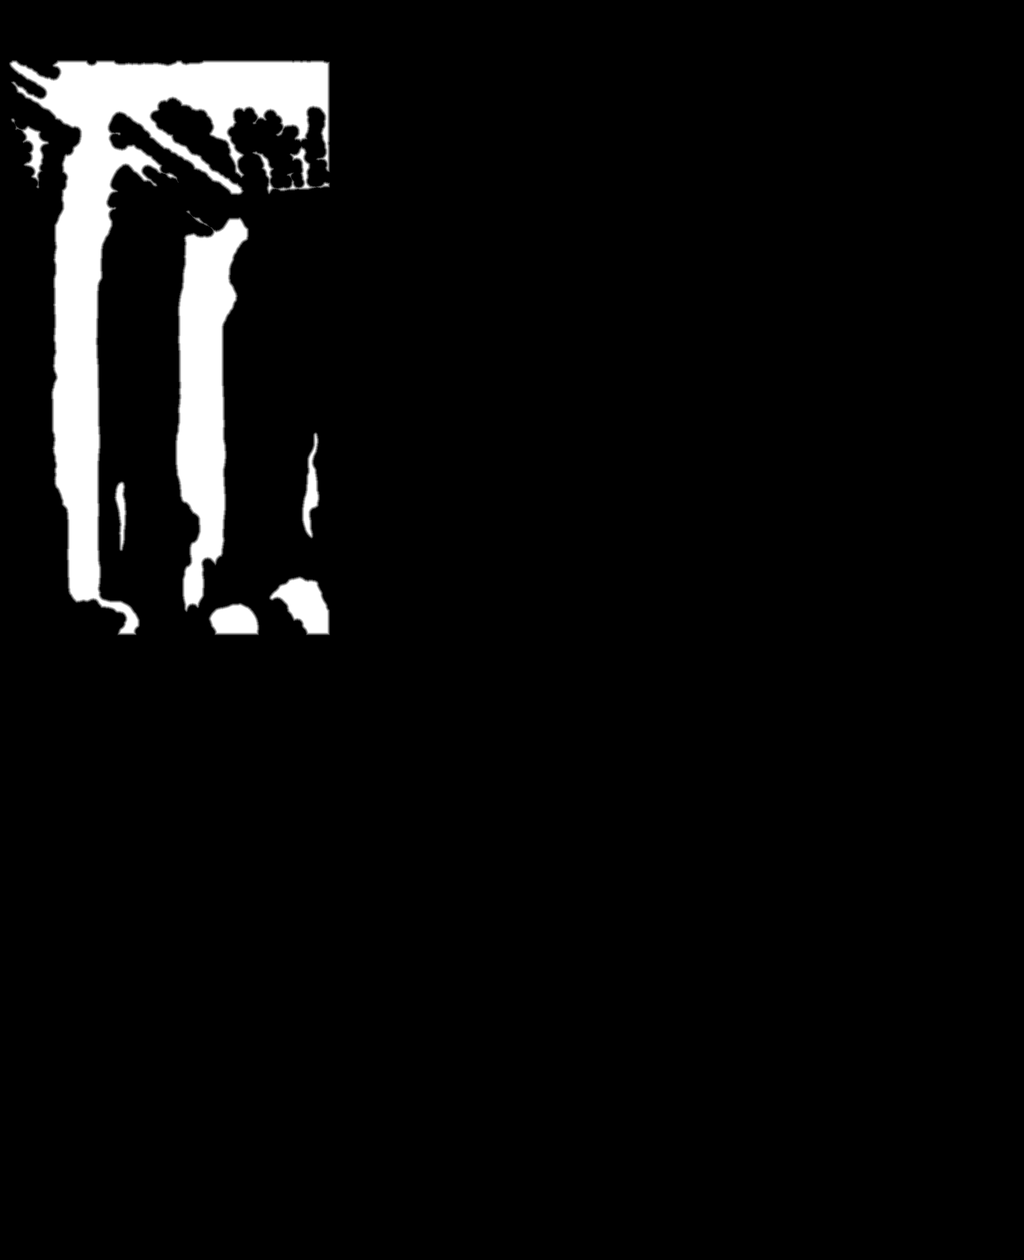
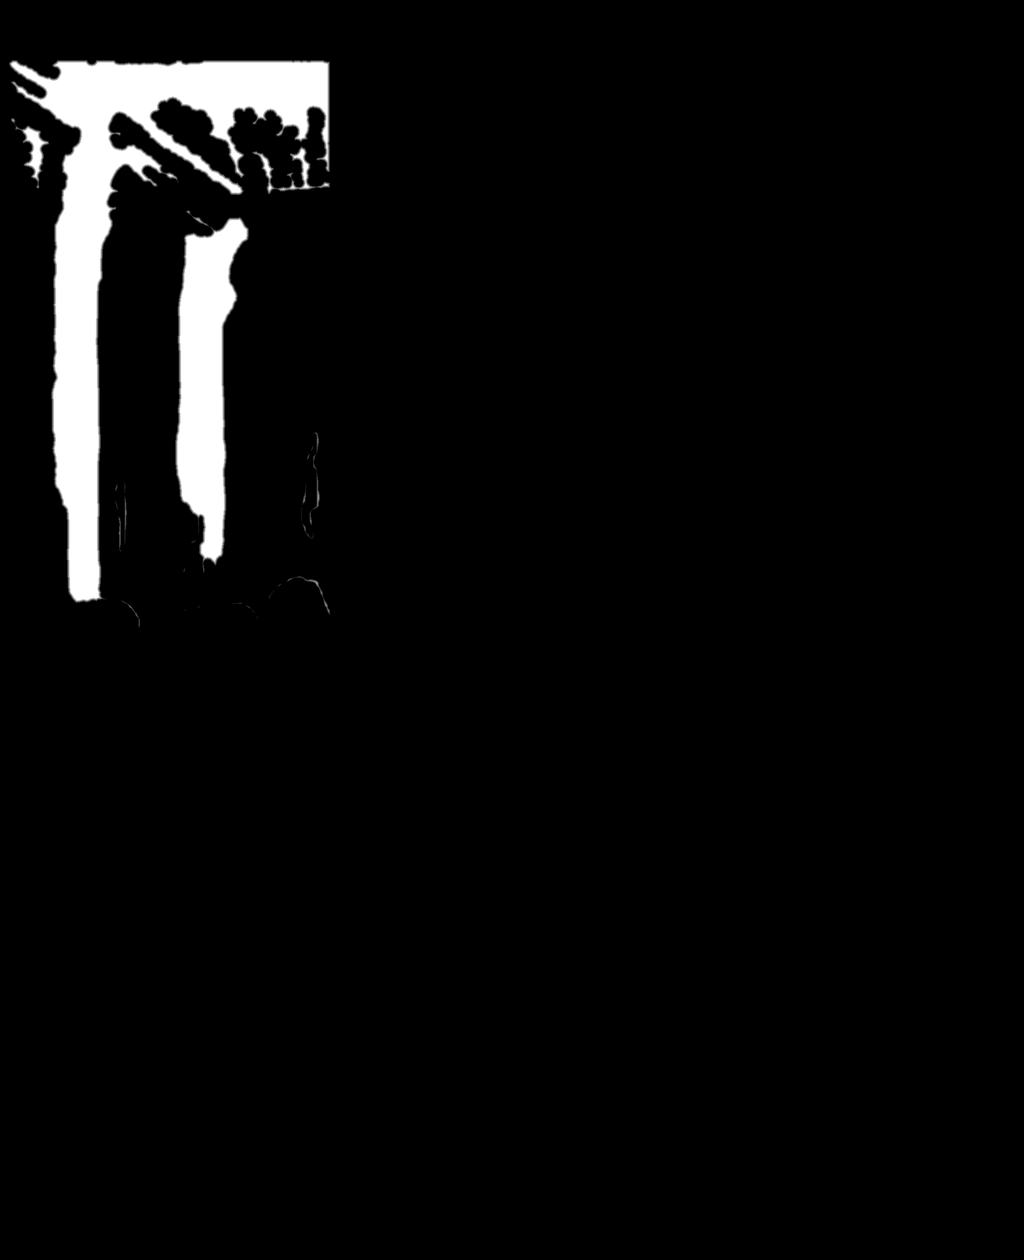
fix(parallax): stop crowd layer duplicating figures via global mask ownership
clean()'s fill-enclosed-holes step stamped every figure (and the whole floor,
signature included) back into the crowd band after subtraction, so the crowd
layer at z=-0.9 drew a ghost copy of each figure behind its real cut. Replace
per-layer subtractions with one exclusive ownership pass over all 33 layers —
painted crowd/floor/arch/figures/dove/flames in priority order, every pixel
owned once. Adds diag_parallax.py, an offline shifted-composite simulator
that surfaced the guilty pairs.

Claude-Session: https://claude.ai/code/session_017U4GAx9H8jVzrP4j8SK7EY

Changed region(s): [[0.0938, 0.3405, 0.3438, 0.5262], [0.0938, 0.3714, 0.125, 0.4333]]

diff --git a/tools/recut/build_cuts.py b/tools/recut/build_cuts.py
@@ -167,30 +167,38 @@ def main() -> None:
     arch_mask = arch(gray, load_masks("out-stone_column", "stone_column"))
     print(f"{len(figures)} figures, {len(flames)} flames, arch {int(arch_mask.sum())}px")
 
-    # contested pixels belong to the figure standing nearer the viewer
-    # (its silhouette reaches further down the plate)
-    order = sorted(range(len(figures)), key=lambda i: -np.flatnonzero(figures[i].any(axis=1)).max())
+    # Global exclusive ownership: every pixel belongs to exactly ONE layer, so
+    # no content can be drawn twice at different depths. Painted lowest
+    # priority first, each later paint overwriting — crowd and floor start as
+    # solid bands and end up holding only what nothing else claimed. (The old
+    # per-layer subtractions leaked: clean()'s hole-filling stamped the
+    # figure-shaped holes right back into the crowd band.)
     owner = np.full((H, W), -1, np.int16)
-    for rank, i in enumerate(order):
-        m = figures[i].astype(bool) & (owner < 0)
-        owner[m] = i
-    figures = [(owner == i).astype(np.uint8) for i in range(len(figures))]
-
-    # floor: the pavement band in front of the crowd, minus the figures
-    floor = np.zeros((H, W), np.uint8)
-    floor[int(H * 0.78):, :] = 1
-    for f in figures:
-        floor &= 1 - f
-    floor = clean(floor, close_px=5)
-
-    # residual crowd layer: everything in the crowd band no figure owns — the
-    # faces SAM didn't separate move with this back layer instead of being
-    # ghosts pinned to the backdrop wall
+    layers_by_priority: list[tuple[int, np.ndarray]] = []
     crowd = np.zeros((H, W), np.uint8)
     crowd[int(H * 0.40):int(H * 0.815), :] = 1
-    for m in (*figures, floor, *flames):
-        crowd &= 1 - m
-    crowd = clean(crowd, close_px=5)
+    floor = np.zeros((H, W), np.uint8)
+    floor[int(H * 0.78):, :] = 1
+    CROWD_ID, FLOOR_ID, ARCH_ID, DOVE_ID = 1000, 1001, 1002, 1003
+    layers_by_priority.append((CROWD_ID, crowd))
+    layers_by_priority.append((FLOOR_ID, floor))
+    layers_by_priority.append((ARCH_ID, arch_mask))
+    # figures back-to-front so the nearer figure wins contested pixels
+    # (its silhouette reaches further down the plate)
+    for i in sorted(range(len(figures)), key=lambda i: np.flatnonzero(figures[i].any(axis=1)).max()):
+        layers_by_priority.append((i, figures[i]))
+    layers_by_priority.append((DOVE_ID, dove))
+    for j, f in enumerate(flames):
+        layers_by_priority.append((2000 + j, f))
+    for lid, m in layers_by_priority:
+        owner[m.astype(bool)] = lid
+    figures = [(owner == i).astype(np.uint8) for i in range(len(figures))]
+    flames = [(owner == 2000 + j).astype(np.uint8) for j in range(len(flames))]
+    flames = [f for f in flames if f.sum() > 0]
+    dove = (owner == DOVE_ID).astype(np.uint8)
+    arch_mask = (owner == ARCH_ID).astype(np.uint8)
+    crowd = (owner == CROWD_ID).astype(np.uint8)
+    floor = (owner == FLOOR_ID).astype(np.uint8)
 
     # z for each figure from how far down the plate it reaches (further = nearer)
     bottoms = [np.flatnonzero(f.any(axis=1)).max() / H for f in figures]

diff --git a/tools/recut/diag_parallax.py b/tools/recut/diag_parallax.py
@@ -1,0 +1,71 @@
+"""Offline parallax simulator to hunt duplicated content between layers.
+
+Composites the shipped cut set with each layer shifted horizontally in
+proportion to its z (and flames lifted, as the component does mid-scroll).
+Writes three images into tools/recut/out-diag/:
+  shifted-full.png      backdrop + all cuts
+  shifted-nocrowd.png   without the crowd layer
+  shifted-nobg.png      cuts over black (no backdrop)
+Anything that appears twice in -full but once in one of the others names the
+guilty pair.
+"""
+
+import json
+from pathlib import Path
+
+import numpy as np
+from PIL import Image
+
+HERE = Path(__file__).resolve().parent
+DORE = HERE.parents[1] / "public" / "dore"
+OUT = HERE / "out-diag"
+
+SHIFT_PER_Z = 26   # px of horizontal shift per unit z, at 1024 wide
+FLAME_LIFT = 90    # px the flames have risen mid-scroll
+
+
+def shift(img: np.ndarray, dx: int, dy: int) -> np.ndarray:
+    out = np.zeros_like(img)
+    h, w = img.shape[:2]
+    sx0, sx1 = max(0, -dx), min(w, w - dx)
+    dx0 = max(0, dx)
+    sy0, sy1 = max(0, -dy), min(h, h - dy)
+    dy0 = max(0, dy)
+    out[dy0:dy0 + (sy1 - sy0), dx0:dx0 + (sx1 - sx0)] = img[sy0:sy1, sx0:sx1]
+    return out
+
+
+def main() -> None:
+    OUT.mkdir(exist_ok=True)
+    cuts = json.loads((DORE / "cuts.json").read_text())
+    plate = np.asarray(Image.open(DORE / "plate.jpg").convert("RGB").resize((1024, 1260))).astype(np.float32)
+    backdrop = np.asarray(Image.open(DORE / "plate-backdrop.png").convert("RGB").resize((1024, 1260))).astype(np.float32)
+
+    layers = []
+    for c in sorted(cuts, key=lambda c: c["z"]):
+        a = np.asarray(Image.open(DORE / f"cut-{c['name']}.png").convert("L")).astype(np.float32) / 255
+        layers.append((c, a[..., None]))
+
+    def composite(base: np.ndarray | None, skip: set[str]) -> np.ndarray:
+        img = base.copy() if base is not None else np.zeros_like(plate)
+        for c, a in layers:
+            if c["name"] in skip:
+                continue
+            dx = round(c["z"] * SHIFT_PER_Z)
+            dy = -FLAME_LIFT if c["isFlame"] else 0
+            src = shift(plate * a, dx, dy)
+            am = shift(a, dx, dy)
+            img = src + img * (1 - am)
+        return img
+
+    for tag, base, skip in [
+        ("full", backdrop, set()),
+        ("nocrowd", backdrop, {"crowd"}),
+        ("nobg", None, set()),
+    ]:
+        Image.fromarray(composite(base, skip).clip(0, 255).astype(np.uint8)).save(OUT / f"shifted-{tag}.png")
+    print(f"wrote {OUT}")
+
+
+if __name__ == "__main__":
+    main()
